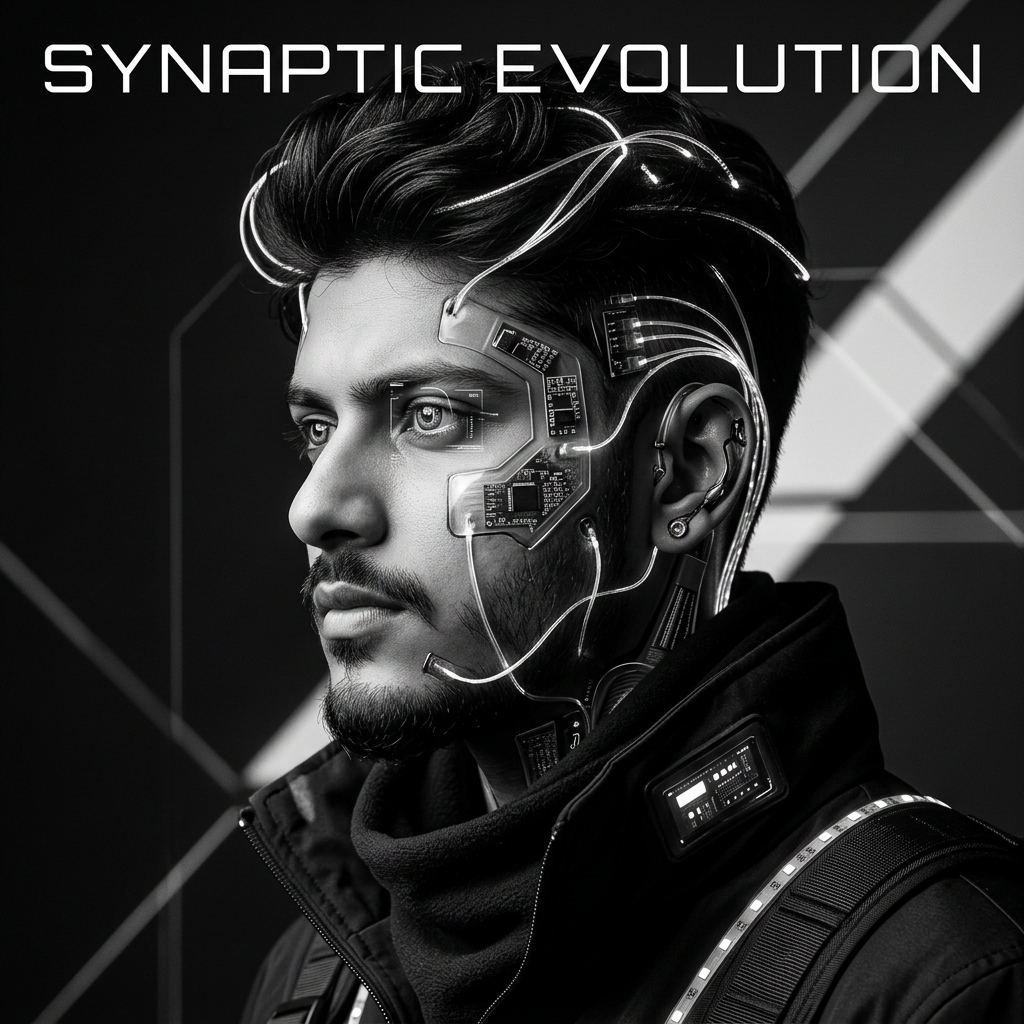
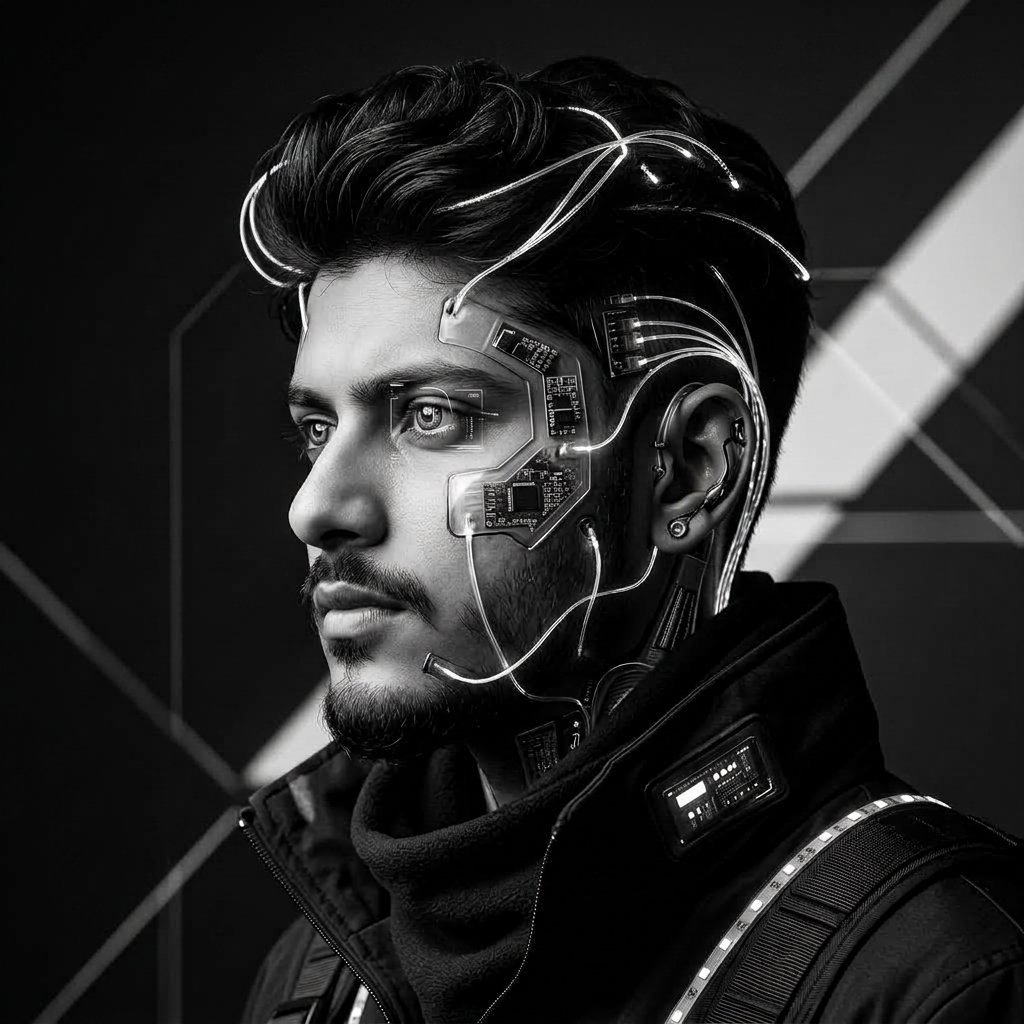
Update hero image to 4k textless version and refine CSS gradient/framing

diff --git a/src/styles/hero.css b/src/styles/hero.css
@@ -21,9 +21,9 @@
   width: 72%; /* Fine-tuned midpoint between 65% and 80% */
   height: 100%;
   object-fit: cover;
-  object-position: 60% 15%; /* Fine-tuned framing midpoint */
+  object-position: 60% 70%; /* Pushed up to show neck */
   z-index: 1;
-  filter: grayscale(100%) brightness(0.5) contrast(1.2); 
+  filter: grayscale(100%) brightness(0.35) contrast(1.3); /* Made darker */
 }
 
 /* 
@@ -34,14 +34,14 @@
   position: relative;
   z-index: 2;
   width: 100%;
-  background: linear-gradient(to right, rgba(255,255,255,1) 0%, rgba(255,255,255,1) 35%, rgba(255,255,255,0) 80%);
+  background: linear-gradient(to right, rgba(255,255,255,1) 0%, rgba(255,255,255,0.95) 25%, rgba(255,255,255,0.4) 65%, rgba(255,255,255,0) 100%);
   display: flex;
   align-items: center;
 }
 
 @media (max-width: 900px) {
   .hero-overlay {
-    background: linear-gradient(to top, rgba(255,255,255,1) 0%, rgba(255,255,255,0.9) 60%, rgba(255,255,255,0) 100%);
+    background: linear-gradient(to top, rgba(255,255,255,1) 0%, rgba(255,255,255,0.95) 40%, rgba(255,255,255,0) 100%);
     align-items: flex-end;
   }
 }
